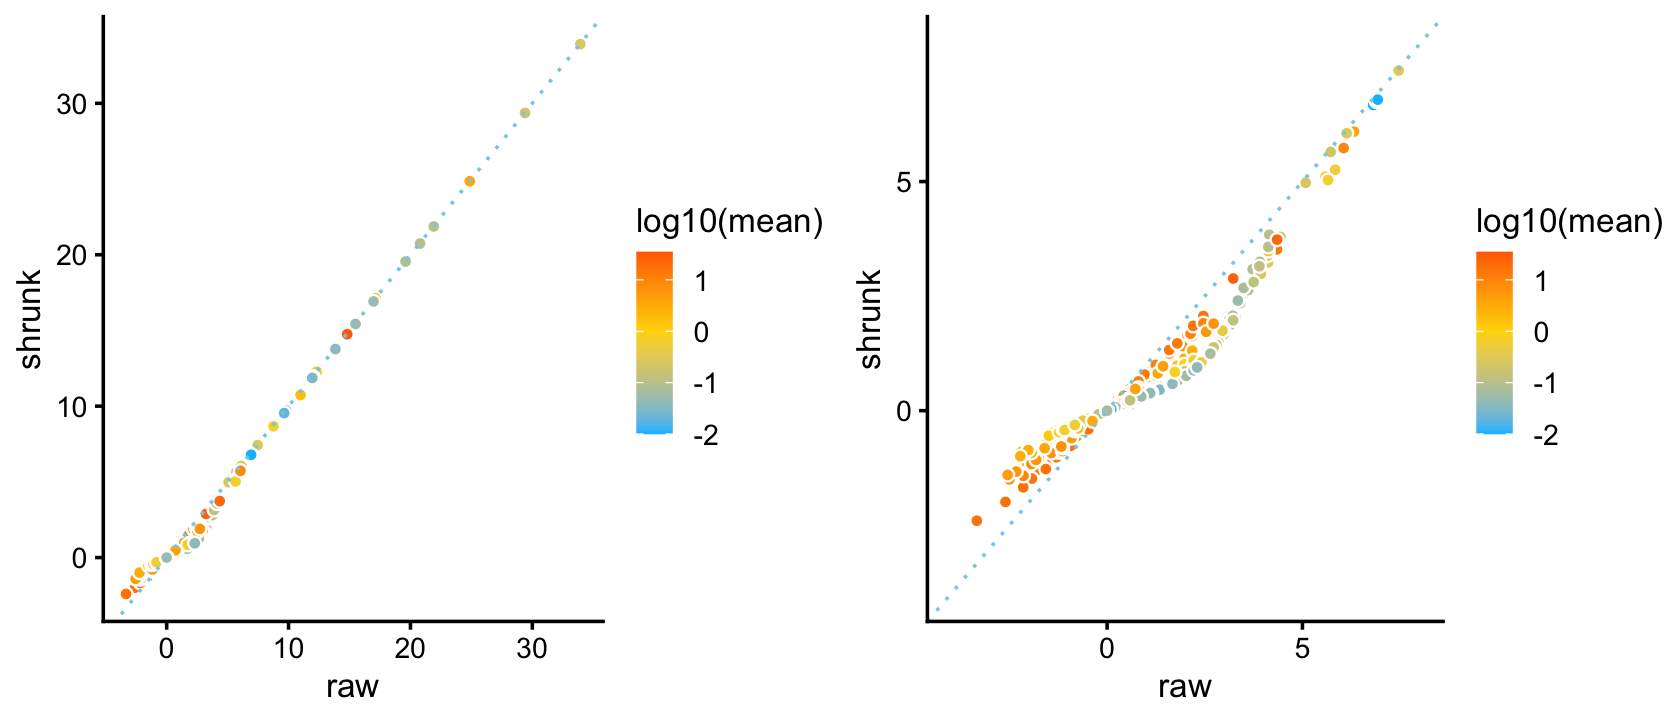
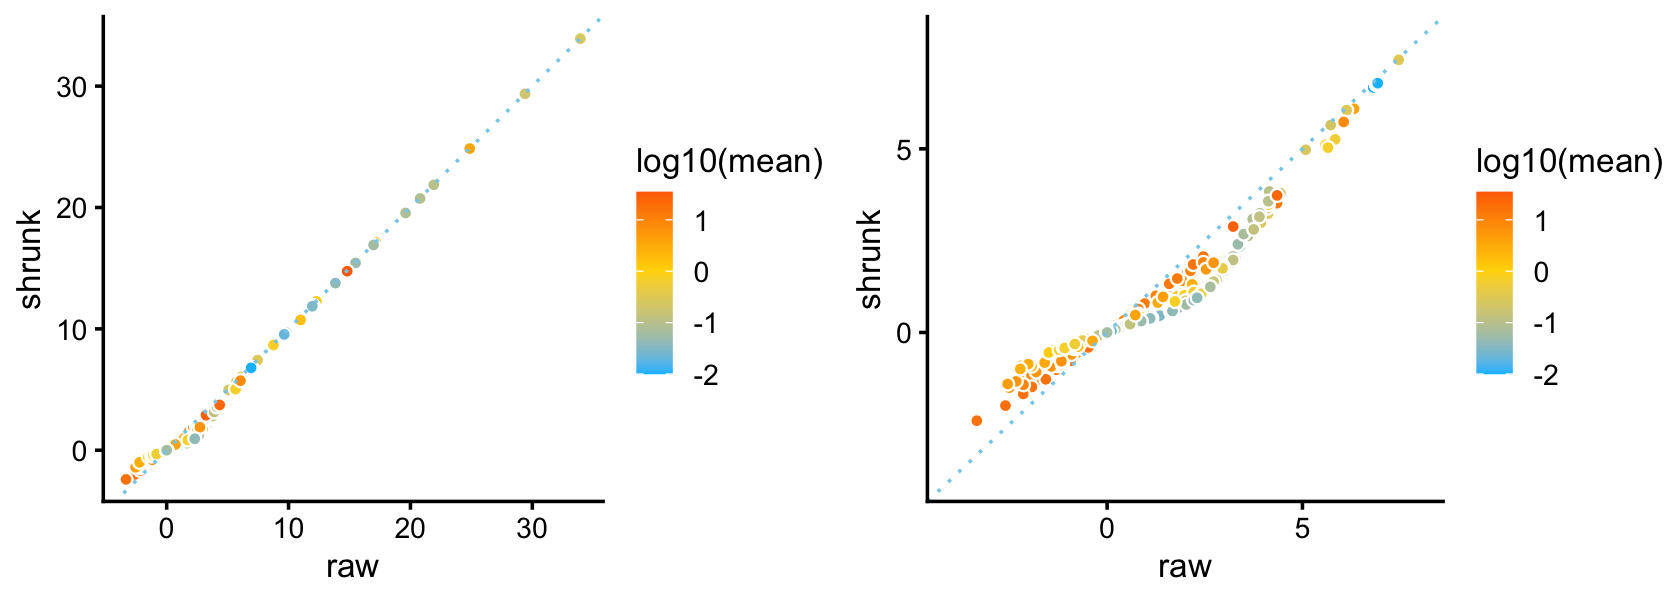
Improved the text and code in the "shrink_demo".

diff --git a/docs/shrink_demo.html b/docs/shrink_demo.html
@@ -12,7 +12,7 @@
 <meta name="author" content="Peter Carbonetto" />
 
 
-<title>Add Title Here</title>
+<title>Adaptive shrinkage of log-fold changes</title>
 
 <script src="site_libs/jquery-1.11.3/jquery.min.js"></script>
 <meta name="viewport" content="width=device-width, initial-scale=1" />
@@ -297,7 +297,7 @@ $(document).ready(function () {
 
 
 
-<h1 class="title toc-ignore">Add Title Here</h1>
+<h1 class="title toc-ignore">Adaptive shrinkage of log-fold changes</h1>
 <h4 class="author">Peter Carbonetto</h4>
 
 </div>
@@ -323,7 +323,7 @@ $(document).ready(function () {
 <div class="tab-content">
 <div id="summary" class="tab-pane fade in active">
 <p>
-<strong>Last updated:</strong> 2021-02-03
+<strong>Last updated:</strong> 2021-02-04
 </p>
 <p>
 <strong>Checks:</strong> <span class="glyphicon glyphicon-ok text-success" aria-hidden="true"></span> 7 <span class="glyphicon glyphicon-exclamation-sign text-danger" aria-hidden="true"></span> 0
@@ -414,16 +414,16 @@ This reproducible <a href="http://rmarkdown.rstudio.com">R Markdown</a> analysis
 <div class="panel panel-default">
 <div class="panel-heading">
 <p class="panel-title">
-<a data-toggle="collapse" data-parent="#workflowr-checks" href="#strongRepositoryversionstrongahrefhttpsgithubcomstephenslabsinglecelltopicstree5ef4b98ea34b6119180a3bf05b62e487803c3040targetblank5ef4b98a"> <span class="glyphicon glyphicon-ok text-success" aria-hidden="true"></span> <strong>Repository version:</strong> <a href="https://github.com/stephenslab/single-cell-topics/tree/5ef4b98ea34b6119180a3bf05b62e487803c3040" target="_blank">5ef4b98</a> </a>
+<a data-toggle="collapse" data-parent="#workflowr-checks" href="#strongRepositoryversionstrongahrefhttpsgithubcomstephenslabsinglecelltopicstree816d01cfe781e8c8b156d16a994277cc268414datargetblank816d01ca"> <span class="glyphicon glyphicon-ok text-success" aria-hidden="true"></span> <strong>Repository version:</strong> <a href="https://github.com/stephenslab/single-cell-topics/tree/816d01cfe781e8c8b156d16a994277cc268414da" target="_blank">816d01c</a> </a>
 </p>
 </div>
[2 lines of base64/hex data omitted]
 <div class="panel-body">
 <p>
 Great! You are using Git for version control. Tracking code development and connecting the code version to the results is critical for reproducibility.
 </p>
 <p>
-The results in this page were generated with repository version <a href="https://github.com/stephenslab/single-cell-topics/tree/5ef4b98ea34b6119180a3bf05b62e487803c3040" target="_blank">5ef4b98</a>. See the <em>Past versions</em> tab to see a history of the changes made to the R Markdown and HTML files.
+The results in this page were generated with repository version <a href="https://github.com/stephenslab/single-cell-topics/tree/816d01cfe781e8c8b156d16a994277cc268414da" target="_blank">816d01c</a>. See the <em>Past versions</em> tab to see a history of the changes made to the R Markdown and HTML files.
 </p>
 <p>
 Note that you need to be careful to ensure that all relevant files for the analysis have been committed to Git prior to generating the results (you can use <code>wflow_publish</code> or <code>wflow_git_commit</code>). workflowr only checks the R Markdown file, but you know if there are other scripts or data files that it depends on. Below is the status of the Git repository when the results were generated:
@@ -492,6 +492,40 @@ Message
 Rmd
 </td>
 <td>
+<a href="https://github.com/stephenslab/single-cell-topics/blob/816d01cfe781e8c8b156d16a994277cc268414da/analysis/shrink_demo.Rmd" target="_blank">816d01c</a>
+</td>
+<td>
+Peter Carbonetto
+</td>
+<td>
+2021-02-04
+</td>
+<td>
+workflowr::wflow_publish(“shrink_demo.Rmd”)
+</td>
+</tr>
+<tr>
+<td>
+html
+</td>
+<td>
+<a href="https://rawcdn.githack.com/stephenslab/single-cell-topics/3dbddd016f4f0d6bd3c642b94db6043abb5c1094/docs/shrink_demo.html" target="_blank">3dbddd0</a>
+</td>
+<td>
+Peter Carbonetto
+</td>
+<td>
+2021-02-03
+</td>
+<td>
+Improved the plots in shrink_demo.
+</td>
+</tr>
+<tr>
+<td>
+Rmd
+</td>
+<td>
 <a href="https://github.com/stephenslab/single-cell-topics/blob/5ef4b98ea34b6119180a3bf05b62e487803c3040/analysis/shrink_demo.Rmd" target="_blank">5ef4b98</a>
 </td>
 <td>
@@ -545,26 +579,14 @@ workflowr::wflow_publish(“shrink_demo.Rmd”)
 </div>
 </div>
 </div>
-<p><em>Add text here.</em></p>
+<p>Here we illustrate the use of the adaptive shrinkage method in the differential expression analysis using a topic model. Since the effect of the shrinkage is hard to see on the full data set, we perform the differential expression analysis on a random subset of 100 cells.</p>
 <p>Load the packages used in the analysis below, as well as additional functions that we will use to generate some of the plots.</p>
 <pre class="r"><code>library(Matrix)
 library(fastTopics)
 library(ggplot2)
 library(cowplot)</code></pre>
 <p>Load the count data.</p>
-<pre class="r"><code>load(&quot;../data/pbmc_purified.RData&quot;)
-table(samples$celltype)
-# 
-#                      CD19+ B               CD14+ Monocyte 
-#                        10085                         2612 
-#                        CD34+               CD4+ T Helper2 
-#                         9232                        11213 
-#                     CD56+ NK             CD8+ Cytotoxic T 
-#                         8385                        10209 
-#          CD4+/CD45RO+ Memory CD8+/CD45RA+ Naive Cytotoxic 
-#                        10224                        11953 
-#   CD4+/CD45RA+/CD25- Naive T              CD4+/CD25 T Reg 
-#                        10479                        10263</code></pre>
+<pre class="r"><code>load(&quot;../data/pbmc_purified.RData&quot;)</code></pre>
 <p>Load the <span class="math inline">\(K = 6\)</span> Poisson NMF model fit.</p>
 <pre class="r"><code>fit &lt;- readRDS(file.path(&quot;../output/pbmc-purified/rds&quot;,
                          &quot;fit-pbmc-purified-scd-ex-k=6.rds&quot;))$fit
@@ -577,16 +599,17 @@ rows    &lt;- sample(n,100)
 samples &lt;- samples[rows,]
 counts  &lt;- counts[rows,]
 fit     &lt;- select_loadings(fit,loadings = rows)</code></pre>
-<p>Perform differential expression analysis using the multinomial topic model:</p>
+<p>Perform differential expression analysis using the multinomial topic model, without shrinkage:</p>
 <pre class="r"><code>res1 &lt;- diff_count_analysis(fit,counts,shrink.method = &quot;none&quot;)
 # Fitting 21952 x 6 = 131712 univariate Poisson models.
 # Computing log-fold change statistics.</code></pre>
-<p>Redo the different expression analysis, this time applying adaptive shrinkage to the log-fold change estimates:</p>
+<p>Redo the different expression analysis, this time applying adaptive shrinkage to the log-fold change estimates and standard errors:</p>
 <pre class="r"><code>res2 &lt;- diff_count_analysis(fit,counts,shrink.method = &quot;ash&quot;)
 # Fitting 21952 x 6 = 131712 univariate Poisson models.
 # Computing log-fold change statistics.
 # Stabilizing log-fold change estimates using adaptive shrinkage.</code></pre>
-<p><em>Add text here.</em></p>
+<p>The adaptive shrinkage is applied separately to each topic. In these next plots, we illustrate the effect of the adaptive shrinkage on topic 3, which corresponds to B cells.</p>
+<p>These two scatterplots show the “raw” <em>z</em>-scores and the posterior <em>z</em>-scores (“shrunk”), coloured by their average expression. Since a handful of genes have much larger <em>z</em>-scores than the others, it is hard to see the effect of the adaptive shrinkage, so the right-hand plot shows the same results, but zoomed in on <em>z</em>-scores closer to zero.</p>
 <pre class="r"><code>pdat &lt;- data.frame(mean   = res1$colmeans,
                    raw    = res1$Z[,3],
                    shrunk = res2$Z[,3])
@@ -597,16 +620,55 @@ p1 &lt;- ggplot(pdat,aes(x = raw,y = shrunk,fill = log10(mean))) +
   geom_abline(slope = 1,intercept = 0,color = &quot;skyblue&quot;,linetype = &quot;dotted&quot;) +
   theme_cowplot(font_size = 10)
 p2 &lt;- p1 + xlim(-4,8) + ylim(-4,8)
-plot_grid(p1,p2)
-# Warning: Removed 89 rows containing missing values (geom_point).</code></pre>
+plot_grid(p1,p2)</code></pre>
 <p><img src="figure/shrink_demo.Rmd/scatterplot-1.png" width="840" style="display: block; margin: auto;" /></p>
-<p><em>Add text here.</em></p>
+<p>
+<button type="button" class="btn btn-default btn-xs btn-workflowr btn-workflowr-fig" data-toggle="collapse" data-target="#fig-scatterplot-1">
+Past versions of scatterplot-1.png
+</button>
+</p>
+<div id="fig-scatterplot-1" class="collapse">
+<div class="table-responsive">
+<table class="table table-condensed table-hover">
+<thead>
+<tr>
+<th>
+Version
+</th>
+<th>
+Author
+</th>
+<th>
+Date
+</th>
+</tr>
+</thead>
+<tbody>
+<tr>
+<td>
+<a href="https://github.com/stephenslab/single-cell-topics/blob/3dbddd016f4f0d6bd3c642b94db6043abb5c1094/docs/figure/shrink_demo.Rmd/scatterplot-1.png" target="_blank">3dbddd0</a>
+</td>
+<td>
+Peter Carbonetto
+</td>
+<td>
+2021-02-03
+</td>
+</tr>
+</tbody>
+</table>
+</div>
+</div>
+<p>The log-fold changes that are most strongly shrunk to zero tend to be for the genes with lower levels of expression.</p>
+<p>This is what the volcano plots look like with and without adaptive shrinkage:</p>
 <pre class="r"><code>p3 &lt;- volcano_plot(res1,k = &quot;k3&quot;,labels = genes$symbol,
                    filter_low_counts = 0.05,
-                   label_above_quantile = 0.999)
+                   label_above_quantile = 0.999) +
+  ggtitle(&quot;topic 3 (raw)&quot;)
 p4 &lt;- volcano_plot(res2,k = &quot;k3&quot;,labels = genes$symbol,
                    filter_low_counts = 0.05,
-                   label_above_quantile = 0.999)
+                   label_above_quantile = 0.999) +
+  ggtitle(&quot;topic 3 (shrunk)&quot;)
 plot_grid(p3,p4)</code></pre>
 <p><img src="figure/shrink_demo.Rmd/volcano-plots-1.png" width="780" style="display: block; margin: auto;" /></p>
 <p>
@@ -631,6 +693,17 @@ Date
 </tr>
 </thead>
 <tbody>
+<tr>
+<td>
+<a href="https://github.com/stephenslab/single-cell-topics/blob/3dbddd016f4f0d6bd3c642b94db6043abb5c1094/docs/figure/shrink_demo.Rmd/volcano-plots-1.png" target="_blank">3dbddd0</a>
+</td>
+<td>
+Peter Carbonetto
+</td>
+<td>
+2021-02-03
+</td>
+</tr>
 <tr>
 <td>
 <a href="https://github.com/stephenslab/single-cell-topics/blob/23e02100c4521c8c04938c6b263d559a26e56cbe/docs/figure/shrink_demo.Rmd/volcano-plots-1.png" target="_blank">23e0210</a>
